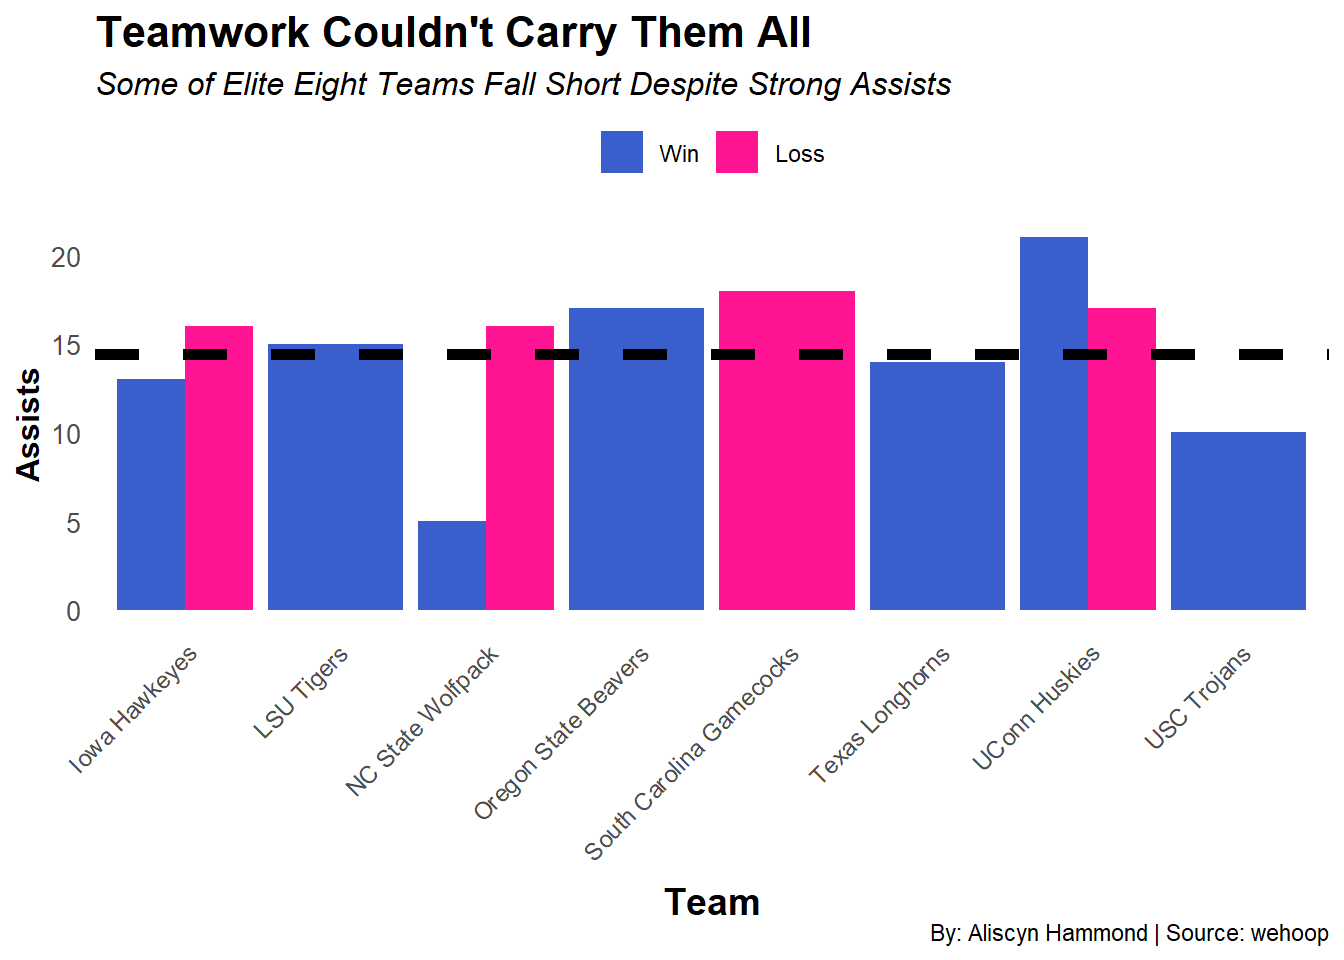
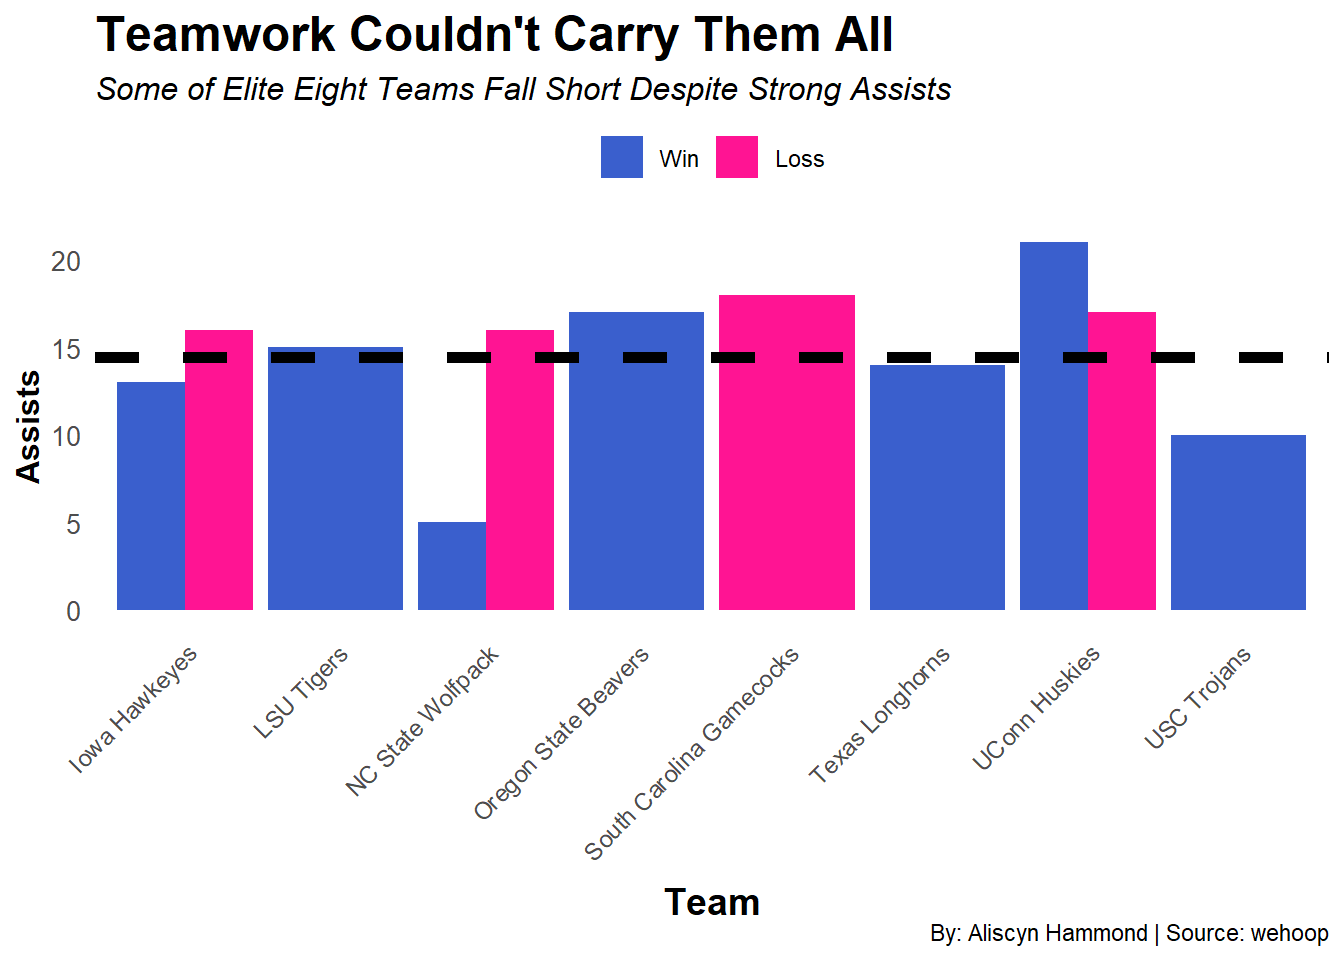
grammar edits

diff --git a/posts/elite-eight-women-basketball/index.html b/posts/elite-eight-women-basketball/index.html
@@ -288,7 +288,7 @@ pre > code.sourceCode > span > a:first-child::before { text-decoration: underlin
 <span id="cb2-28"><a href="#cb2-28" aria-hidden="true" tabindex="-1"></a>    <span class="at">values =</span> <span class="fu">c</span>(<span class="st">"royalblue3"</span>, <span class="st">"deeppink"</span>) </span>
 <span id="cb2-29"><a href="#cb2-29" aria-hidden="true" tabindex="-1"></a>  ) <span class="sc">+</span>  </span>
 <span id="cb2-30"><a href="#cb2-30" aria-hidden="true" tabindex="-1"></a>  <span class="fu">theme</span>(</span>
-<span id="cb2-31"><a href="#cb2-31" aria-hidden="true" tabindex="-1"></a>    <span class="at">plot.title =</span> <span class="fu">element_text</span>(<span class="at">size =</span> <span class="dv">16</span>, <span class="at">face =</span> <span class="st">"bold"</span>),</span>
+<span id="cb2-31"><a href="#cb2-31" aria-hidden="true" tabindex="-1"></a>    <span class="at">plot.title =</span> <span class="fu">element_text</span>(<span class="at">size =</span> <span class="dv">18</span>, <span class="at">face =</span> <span class="st">"bold"</span>),</span>
 <span id="cb2-32"><a href="#cb2-32" aria-hidden="true" tabindex="-1"></a>    <span class="at">plot.subtitle =</span> <span class="fu">element_text</span>(<span class="at">size =</span> <span class="dv">12</span>, <span class="at">face =</span> <span class="st">"italic"</span>),</span>
 <span id="cb2-33"><a href="#cb2-33" aria-hidden="true" tabindex="-1"></a>    <span class="at">axis.title =</span> <span class="fu">element_text</span>(<span class="at">size =</span> <span class="dv">12</span>, <span class="at">face =</span> <span class="st">"bold"</span>),</span>
 <span id="cb2-34"><a href="#cb2-34" aria-hidden="true" tabindex="-1"></a>     <span class="at">axis.title.x =</span> <span class="fu">element_text</span>(<span class="at">size =</span> <span class="dv">14</span>, <span class="at">face =</span> <span class="st">"bold"</span>, <span class="at">hjust =</span> <span class="fl">0.5</span>, <span class="at">vjust =</span> <span class="sc">-</span><span class="dv">1</span>),</span>

diff --git a/index.html b/index.html
@@ -210,7 +210,7 @@ window.Quarto = {
 
 <div class="quarto-listing quarto-listing-container-default" id="listing-listing">
 <div class="list quarto-listing-default">
-<div class="quarto-post image-right" data-index="0" data-categories="YmFza2V0YmFsbCx3b21lbiBzcG9ydHMsZWxpdGUgZWlnaHQ=" data-listing-date-sort="1731823200000" data-listing-file-modified-sort="1731899855697" data-listing-date-modified-sort="NaN" data-listing-reading-time-sort="9" data-listing-word-count-sort="1712">
+<div class="quarto-post image-right" data-index="0" data-categories="YmFza2V0YmFsbCx3b21lbiBzcG9ydHMsZWxpdGUgZWlnaHQ=" data-listing-date-sort="1731823200000" data-listing-file-modified-sort="1731901044634" data-listing-date-modified-sort="NaN" data-listing-reading-time-sort="9" data-listing-word-count-sort="1712">
 <div class="thumbnail">
 <p><a href="./posts/elite-eight-women-basketball/index.html" class="no-external"></a></p><a href="./posts/elite-eight-women-basketball/index.html" class="no-external">
 <p><img loading="lazy" src="./posts/elite-eight-women-basketball/image.png" class="thumbnail-image"></p>
